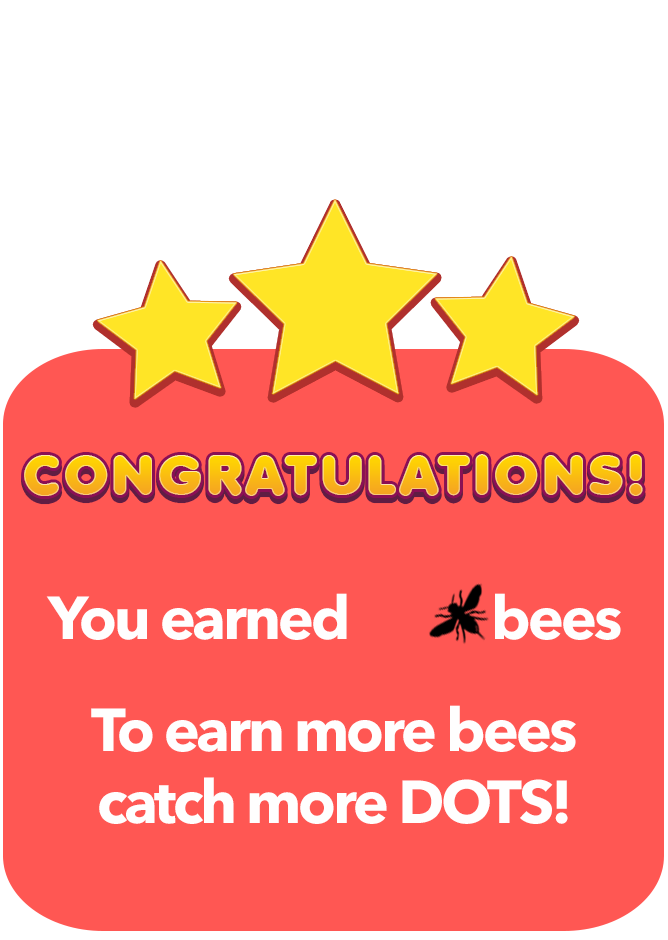
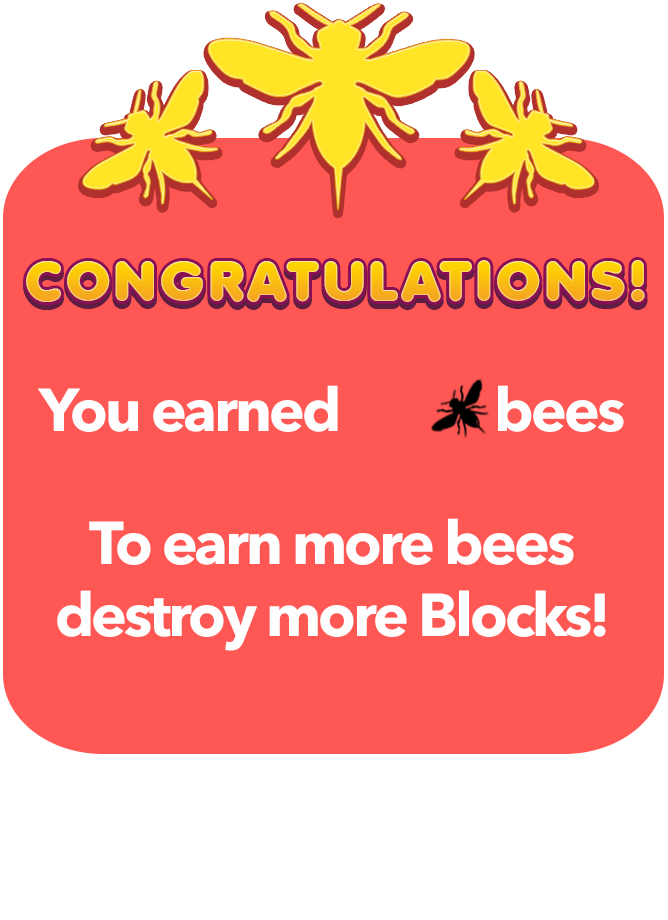
add "Earn bees interstital" for bts plugin. GFX, animator and animations.

diff --git a/MarblzGameProject/Assets/Script/UI/EarnBeesInterstitialController.cs b/MarblzGameProject/Assets/Script/UI/EarnBeesInterstitialController.cs
@@ -1,0 +1,134 @@
+using System.Collections;
+using System.Collections.Generic;
+using UnityEngine;
+using UnityEngine.UI;
+
+public class EarnBeesInterstitialController : MonoBehaviour {
+
+	private static EarnBeesInterstitialController _instance;
+
+	public enum EarnBeesInterstitialShowType{
+
+		Table,
+		DailyMaximum,
+		BeesEarned
+	}
+
+	[SerializeField] GameObject _earnBeesTable;
+	[SerializeField] GameObject _beesEarnedGo;
+	[SerializeField] GameObject _dailyBeesMaximumGo;
+	[SerializeField] Text _beesEarnedText;
+
+	[SerializeField] List<Image> _beesOnTable;
+	[SerializeField] Animator _animator;
+
+	bool _isShowing = false;
+
+	private int _beesEarnedCount = 0;
+
+	List<KeyValuePair<EarnBeesInterstitialShowType, int>> _queue = new List<KeyValuePair<EarnBeesInterstitialShowType, int>> ();
+
+	bool _usePause = false;
+
+	public static EarnBeesInterstitialController Instance{
+
+		get{ 
+			return _instance;
+		}
+	}
+
+	void Awake (){
+		DontDestroyOnLoad (this.gameObject);
+		_instance = this;
+	}
+
+	public void Show (EarnBeesInterstitialShowType showType, int bees = 0){
+		if (_isShowing == true)
+			return;
+
+		_isShowing = true;
+
+		_animator.SetTrigger ("FadeIn");
+
+		switch (showType) {
+
+		case EarnBeesInterstitialShowType.BeesEarned:
+			_earnBeesTable.SetActive (true);
+			_dailyBeesMaximumGo.SetActive (false);
+			_beesEarnedGo.SetActive (true);
+
+			_beesEarnedText.text = bees.ToString ();
+
+			break;
+
+
+		case EarnBeesInterstitialShowType.DailyMaximum:
+			_earnBeesTable.SetActive (true);
+			_dailyBeesMaximumGo.SetActive (true);
+			_beesEarnedGo.SetActive (false);
+
+			break;
+
+
+		case EarnBeesInterstitialShowType.Table:
+
+			_earnBeesTable.SetActive (true);
+			_dailyBeesMaximumGo.SetActive (false);
+			_beesEarnedGo.SetActive (false);
+
+			break;
+		}
+
+	}
+
+
+	public void FadeOut(){
+	
+		if (_isShowing == false)
+			return;
+
+		_isShowing = false;
+		_animator.SetTrigger ("FadeOut");
+
+
+	}
+
+	public void OnTableExitButtonClick(){
+		FadeOut ();
+	}
+
+	public void OnBeesEarnedExitButtonClick(){
+
+		_beesEarnedGo.SetActive (false);
+	}
+
+	public void OnDailyBeesMaximumExitButtonClick(){
+	
+		_dailyBeesMaximumGo.SetActive (false);
+	}
+
+	public void ResetBees(){
+
+		_beesEarnedCount = 0;
+		StartCoroutine (UpdateBeesCoroutine ());
+	}
+
+	public void UpdateBees(){
+	
+		//here will be code 
+		StartCoroutine(UpdateBeesCoroutine());
+	}
+
+
+
+	IEnumerator UpdateBeesCoroutine(){
+		for (int b = 0; b < _beesOnTable.Count; b++) {
+			if (b < _beesEarnedCount) {
+				_beesOnTable [b].color = Color.yellow;
+				continue;
+			}
+			_beesOnTable [b].color = Color.white;
+		}
+		yield return new WaitForEndOfFrame();
+	}
+}

diff --git a/MarblzGameProject/Assets/Script/GameManager.cs b/MarblzGameProject/Assets/Script/GameManager.cs
@@ -380,6 +380,12 @@ public class GameManager : MonoBehaviour {
 		}
 	}
 
+	public void OnEarnBeesButtonClick(){
+	
+
+		EarnBeesInterstitialController.Instance.Show (EarnBeesInterstitialController.EarnBeesInterstitialShowType.Table);
+	}
+
 	IEnumerator PlayBTSPromoCoroutine(){
 
 		yield return new WaitForSeconds (0.5f);
